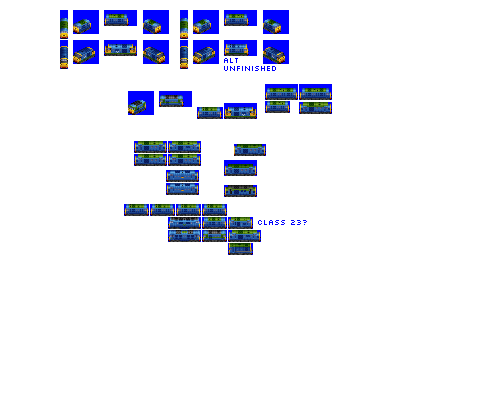
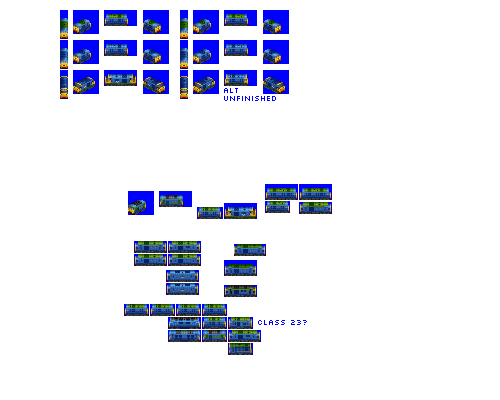
Change: additional banger blue livery for Foxhound

Changed region(s): [[0.24, 0.33, 0.69, 0.9], [0.12, 0.09, 0.69, 0.3], [0.54, 0.78, 0.57, 0.81]]

diff --git a/src/vehicles/foxhound.py b/src/vehicles/foxhound.py
@@ -16,10 +16,8 @@ def main(roster_id):
         fixed_run_cost_points=140,  # substantial cost bonus as a mixed traffic engine
         intro_year_offset=-2,  # let's not have everything turn up in 1960
         gen=4,
-        # additional_liveries=["RAILFREIGHT_RED_STRIPE"],
-        additional_liveries=[],
+        additional_liveries=["BANGER_BLUE"],
         sprites_complete=True,
-        sprites_additional_liveries_needed=True, # banger blue?
     )
 
     consist.add_unit(
